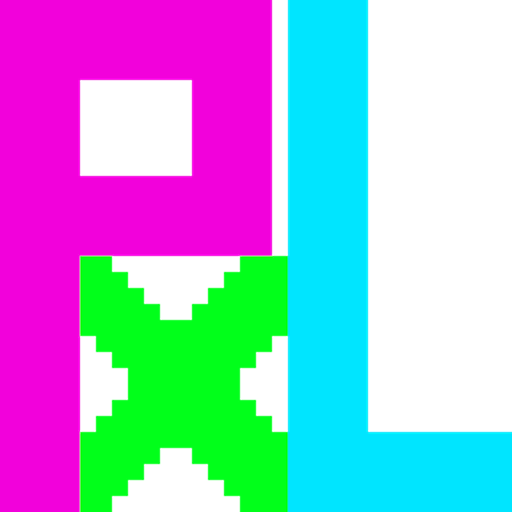
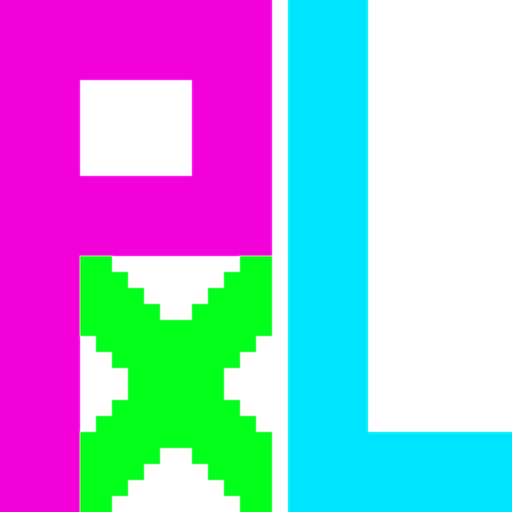
feat: switch out to canvas implementation

Changed region(s): [[0.4375, 0.5, 0.5625, 1.0]]

diff --git a/src/components/canvas/index.js b/src/components/canvas/index.js
@@ -2,43 +2,79 @@ import T from 'prop-types'
 import React, { useEffect, useRef } from 'react'
 import styled from 'styled-components'
 
-// Pixel Canvas Component
-const Grid = styled.div`
-  --radius: ${p => p.radius};
-  display: grid;
-  background: hsl(0, 0%, calc(var(--darkness, 100) * 1%));
-  grid-template-rows: repeat(${p => p.height}, ${p => p.size}px);
-  grid-template-columns: repeat(${p => p.width}, ${p => p.size}px);
+const Container = styled.div`
+  position: relative;
+  height: ${(p) => p.height}px;
+  width: ${(p) => p.width}px;
 `
+const Grid = styled.div`
+  --radius: ${(p) => p.radius};
+  display: grid;
+  position: absolute;
+  grid-template-rows: repeat(${(p) => p.height}, ${(p) => p.size}px);
+  grid-template-columns: repeat(${(p) => p.width}, ${(p) => p.size}px);
+`
+const Canvas = styled.canvas`
+  height: ${(p) => p.height}px;
+  position: absolute;
+  width: ${(p) => p.width}px;
+  background: transparent;
+`
+
 const Cell = styled.div`
-  background: var(--color, transparent);
-  border: 1px solid var(--color, hsl(0, 0%, 40%));
   border-radius: calc(var(--radius, 0) * 1%);
 `
 const PixelCanvas = ({ color, cells, size, height, width, radius }) => {
   const gridRef = useRef(null)
+  const underlayRef = useRef(null)
+  const contextRef = useRef(null)
+  const canvasRef = useRef(null)
   const erasing = useRef(false)
-  const update = e => {
-    const cell = e.x && e.y ? document.elementFromPoint(e.x, e.y) : e.target
+  const update = (e) => {
+    const cell =
+      e.clientX && e.clientY
+        ? document.elementFromPoint(e.clientX, e.clientY)
+        : e.target
     // if (e.x && e.y) cell = document.elementFromPoint(e.x, e.y)
     if (
       e.target.parentNode === gridRef.current &&
       cell &&
       cell.hasAttribute('data-index')
     ) {
-      cell.style.setProperty('--color', erasing.current ? null : color)
+      const CELL_INDEX = parseInt(cell.getAttribute('data-index'), 10)
+      const X = CELL_INDEX % width
+      const Y = Math.floor(CELL_INDEX / width)
+      contextRef.current.fillStyle = color
+      if (erasing.current || !radius) {
+        contextRef.current[erasing.current ? 'clearRect' : 'fillRect'](
+          X * size,
+          Y * size,
+          size,
+          size
+        )
+      } else if (radius) {
+        contextRef.current.beginPath()
+        contextRef.current.arc(
+          X * size + size / 2,
+          Y * size + size / 2,
+          size / 2,
+          0,
+          2 * Math.PI
+        )
+        contextRef.current.fill()
+      }
       cells[
         parseInt(cell.getAttribute('data-index'), 10)
       ].color = erasing.current ? null : color
     }
   }
-  const end = e => {
+  const end = (e) => {
     gridRef.current.removeEventListener('pointermove', update)
     window.removeEventListener('pointerup', end)
     erasing.current = false
   }
 
-  const start = e => {
+  const start = (e) => {
     if (e.button === 2) {
       e.preventDefault()
       erasing.current = true
@@ -49,45 +85,84 @@ const PixelCanvas = ({ color, cells, size, height, width, radius }) => {
   }
 
   useEffect(() => {
-    for (const cell of gridRef.current.children) {
-      cell.removeAttribute('style')
+    if (contextRef.current) {
+      contextRef.current.fillStyle = color
     }
-  }, [height, width])
+  }, [color])
 
   useEffect(() => {
-    for (let c = 0; c < cells.length; c++) {
-      gridRef.current.children[c].removeAttribute('style')
-      if (cells[c].color)
-        gridRef.current.children[c].style.setProperty('--color', cells[c].color)
+    if (underlayRef.current) {
+      const CTX = underlayRef.current.getContext('2d')
+      CTX.clearRect(0, 0, width * size, height * size)
+      CTX.strokeStyle = 'hsl(0, 0%, 50%)'
+      CTX.lineWidth = 1
+      for (let l = 0; l < width + 1; l++) {
+        CTX.moveTo(l * size, 0)
+        CTX.lineTo(l * size, height * size)
+        CTX.stroke()
+      }
+      for (let l = 0; l < height + 1; l++) {
+        CTX.moveTo(0, l * size)
+        CTX.lineTo(width * size, l * size)
+        CTX.stroke()
+      }
     }
-  }, [cells])
+  }, [height, width, size])
+
+  useEffect(() => {
+    if (canvasRef.current && contextRef.current === null) {
+      contextRef.current = canvasRef.current.getContext('2d')
+    }
+  }, [])
+
+  useEffect(() => {
+    // If there's a cell change, need to draw the image onto the canvas.
+    if (contextRef.current) {
+      contextRef.current.clearRect(0, 0, width * size, height * size)
+      for (let c = 0; c < cells.length; c++) {
+        if (cells[c].color) {
+          console.info('drawing')
+          const X = c % width
+          const Y = Math.floor(c / width)
+          contextRef.current.fillStyle = cells[c].color
+          if (radius) {
+            contextRef.current.beginPath()
+            contextRef.current.arc(
+              X * size + size / 2,
+              Y * size + size / 2,
+              size / 2,
+              0,
+              Math.PI * 2
+            )
+            contextRef.current.fill()
+          } else {
+            contextRef.current.fillRect(X * size, Y * size, size, size)
+          }
+        }
+      }
+    }
+  }, [height, cells, size, width, radius])
 
   return (
-    <Grid
-      onPointerDown={start}
-      onContextMenu={e => {
-        e.preventDefault()
-        return false
-      }}
-      ref={gridRef}
-      width={width}
-      height={height}
-      size={size}
-      radius={radius}>
-      {cells.map((c, index) => {
-        const x = index % width
-        const y = Math.floor(index / width)
-        return (
-          <Cell
-            key={index}
-            data-x={x}
-            data-y={y}
-            data-index={index}
-            index={index}
-          />
-        )
-      })}
-    </Grid>
+    <Container width={width * size} height={height * size}>
+      <Canvas width={width * size} height={height * size} ref={underlayRef} />
+      <Canvas width={width * size} height={height * size} ref={canvasRef} />
+      <Grid
+        onPointerDown={start}
+        onContextMenu={(e) => {
+          e.preventDefault()
+          return false
+        }}
+        ref={gridRef}
+        width={width}
+        height={height}
+        size={size}
+        radius={radius}>
+        {cells.map((c, index) => {
+          return <Cell key={index} data-index={index} index={index} />
+        })}
+      </Grid>
+    </Container>
   )
 }
 PixelCanvas.propTypes = {

diff --git a/src/App.js b/src/App.js
@@ -159,6 +159,7 @@ const App = () => {
     CONFIG.color = c
     controllerRef.current.updateDisplay()
     setColor(c)
+    saveToStorage()
   }
 
   const generateShadow = useCallback(() => {
@@ -198,6 +199,7 @@ const App = () => {
   top: 50%;
   left: 50%;
   transform: translate(-50%, -50%);
+  border-radius: ${radius ? '50%' : 0};
 }
 .element:after {
   content: '';
@@ -249,7 +251,7 @@ const App = () => {
         )
         RECT.setAttribute('width', size)
         RECT.setAttribute('height', size)
-        RECT.setAttribute('rx', size * (radius / 100))
+        RECT.setAttribute('rx', radius ? size * 0.5 : 0)
         RECT.setAttribute('fill', cellRef.current[c].color)
         RECT.setAttribute('x', x * size)
         RECT.setAttribute('y', y * size)
@@ -260,12 +262,14 @@ const App = () => {
     alert('Image saved in .svg format!')
   }
   const onClear = () => {
+    if (cellRef.current.filter(c => c.color).length === 0) return
     if (window.confirm('Are you sure you wish to clear the canvas?')) {
       cellRef.current = [...new Array(height * width).fill().map(() => ({}))]
       setViewing(new Date().getTime())
     }
   }
   const onTrim = () => {
+    if (cellRef.current.filter(c => c.color).length === 0) return
     if (
       window.confirm(
         'Are you sure you want to trim the canvas? Maybe snapshot the current canvas in case you want to go back.'
@@ -364,6 +368,7 @@ const App = () => {
         const x = c % width
         const y = Math.floor(c / width)
         CONTEXT.fillStyle = cellRef.current[c].color
+        // Instead make this arc and fill
         CONTEXT.fillRect(x * size, y * size, size, size)
       }
     }
@@ -375,7 +380,7 @@ const App = () => {
     link.click()
     link.remove()
     alert(
-      'Image saved in .png format! NOTE:: If your image uses a radius, this is not translated to the png format. If you need rounded corners, use SVG and then convert to png externally.'
+      'Image saved in .png format!'
     )
   }
 
@@ -517,11 +522,9 @@ const App = () => {
         // generateShadow()
       })
       .name('Pixel size')
-    CONFIGURATION.add(CONFIG, 'radius', 0, 50, 1)
+    CONFIGURATION.add(CONFIG, 'radius')
       .onFinishChange((size) => {
         setRadius(size)
-        // Will trigger shadow generation
-        // generateShadow()
       })
       .name('Pixel radius')
 
@@ -641,6 +644,10 @@ const App = () => {
     width,
     radius,
   ])
+
+  useEffect(() => {
+    saveToStorage()
+  }, [ size, radius, width, height, color, darkMode, saveToStorage])
 
   return (
     <Container>

diff --git a/src/components/about/index.js b/src/components/about/index.js
@@ -1,16 +1,17 @@
 import T from 'prop-types'
 import React from 'react'
+import pkg from '../../../package.json'
 import { createPortal } from 'react-dom'
 
 const About = ({ parent }) => {
   if (!parent.current || !parent.current.domElement) return null
   return createPortal(
     <li
-    className='about'
+      className="about"
       style={{
         lineHeight: 1.5,
       }}>
-      <h2>pxl</h2>
+      <h2>{`pxl v${pkg.version}`}</h2>
       Made by{' '}
       <a
         style={{ fontWeight: 'bold', color: 'white' }}
@@ -28,6 +29,16 @@ const About = ({ parent }) => {
         "Making awesome things for awesome people"
       </a>{' '}
       stream.
+      <p>
+        Check out the repo on{' '}
+        <a
+          style={{ fontWeight: 'bold', color: 'white' }}
+          href="https://github.com/jh3y/pxl"
+          target="_blank"
+          rel="noopener noreferrer">
+          Github
+        </a>.
+      </p>
       <p>&copy; 2020</p>
     </li>,
     parent.current.domElement.querySelector('ul')

diff --git a/src/config.js b/src/config.js
@@ -21,7 +21,7 @@ export default {
     window.localStorage.getItem(name) &&
     JSON.parse(window.localStorage.getItem(name)).radius
       ? JSON.parse(window.localStorage.getItem(name)).radius
-      : 0,
+      : false,
   color:
     window.localStorage.getItem(name) &&
     JSON.parse(window.localStorage.getItem(name)).color

diff --git a/README.md b/README.md
@@ -11,8 +11,9 @@ A pixel sprite drawing application built with React.
 
 ## Example artwork
 
-![party corgi drawn with pxl](src/images/pixel-drawing.png)
+![party corgi drawn with pxl](src/images/doge.png)
 ![pxl logo](src/images/pxl.png)
+![party corgi drawn with pxl](src/images/grape.png)
 
 -----
 Made with 💻 by @jh3y 2020
